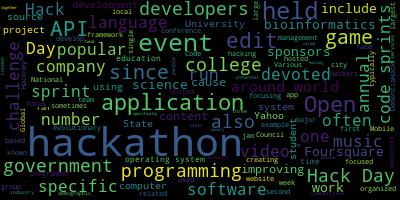
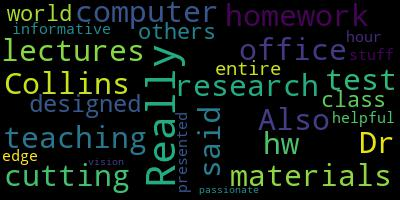
add piechart

diff --git a/index.html b/index.html
@@ -42,13 +42,14 @@
                           <li><a href="#" onclick="get_wordcloud('quick_review')">Susan Quick</a></li>
                       </ul>
                   </div>
+                  <img id='piechart' src="" alt="" style="width: 300px;height: 200px;">
               </div>
           </div>
           <div class="row">
               <div class="col-md-6" style="margin-right:10px; border-radius:25px; height:300px; width:400px; background:#7FFFD4">
                   <label>Word Cloud</label>
                   <br></br>
-                  <img src="" alt="">
+                  <img id='wordcloudimage' src="" alt="">
               </div>
               <div class="col-md-6" style="border-radius:25px; height:300px; width:400px; background:#7FFFD4">
                   <label>IBM Watson Sentiment</label>
@@ -62,7 +63,7 @@
     <script type="text/javascript">
         function get_wordcloud(filename) {
             let myHeaders = new Headers();
-            const myImage = document.querySelector('img');
+            const myImage = document.getElementById('wordcloudimage');
 
             const myInit = {
                 method: 'GET',
@@ -94,6 +95,7 @@
             // .catch( error => console.log(error));
         }
         function classify_text(filename) {
+            var piechart = document.getElementById('piechart')
             let myHeaders = new Headers();
             const myTextBox = document.getElementById('result');
             const myInit = {
@@ -111,7 +113,9 @@
                 .then(r => {
                     console.log(r);
                     console.log(r.classified_text);
+                    console.log(r.piechart);
                     myTextBox.value = r.classified_text;
+                    piechart.src = r.piechart;
                     console.log(myTextBox.value);
                 })
                 .catch( error => console.log(error));

diff --git a/applicationapi.py b/applicationapi.py
@@ -57,7 +57,7 @@ def generate_wordcloud():
 			'response_code': 'error'
 			})
 
-def create_pie_chart(emotions_dict):
+def create_pie_chart(emotions_dict, filename):
     labels = []
     sizes = []
     for k,v in emotions_dict.iteritems():
@@ -68,7 +68,7 @@ def create_pie_chart(emotions_dict):
     fig1, ax1 = plt.subplots()
     ax1.pie(sizes, explode=None, labels=labels, autopct='%1.1f%%', shadow=True, startangle=90)
     ax1.axis('equal')
-    fig1.savefig("piechart.png")
+    fig1.savefig(filename + ".png")
 
 @application.route('/classifyText')
 def classifyText():
@@ -124,10 +124,11 @@ def classifyText():
 		for emotion in emotions_dict.keys():
 		    emotions_dict[emotion] = emotions_dict[emotion]/norm
 
-		create_pie_chart(emotions_dict)
+		create_pie_chart(emotions_dict, filename)
 
 		return jsonify({
-			'classified_text': final_string
+			'classified_text': final_string,
+			'piechart' : filename + '.png'
 			})
 
 	except:
